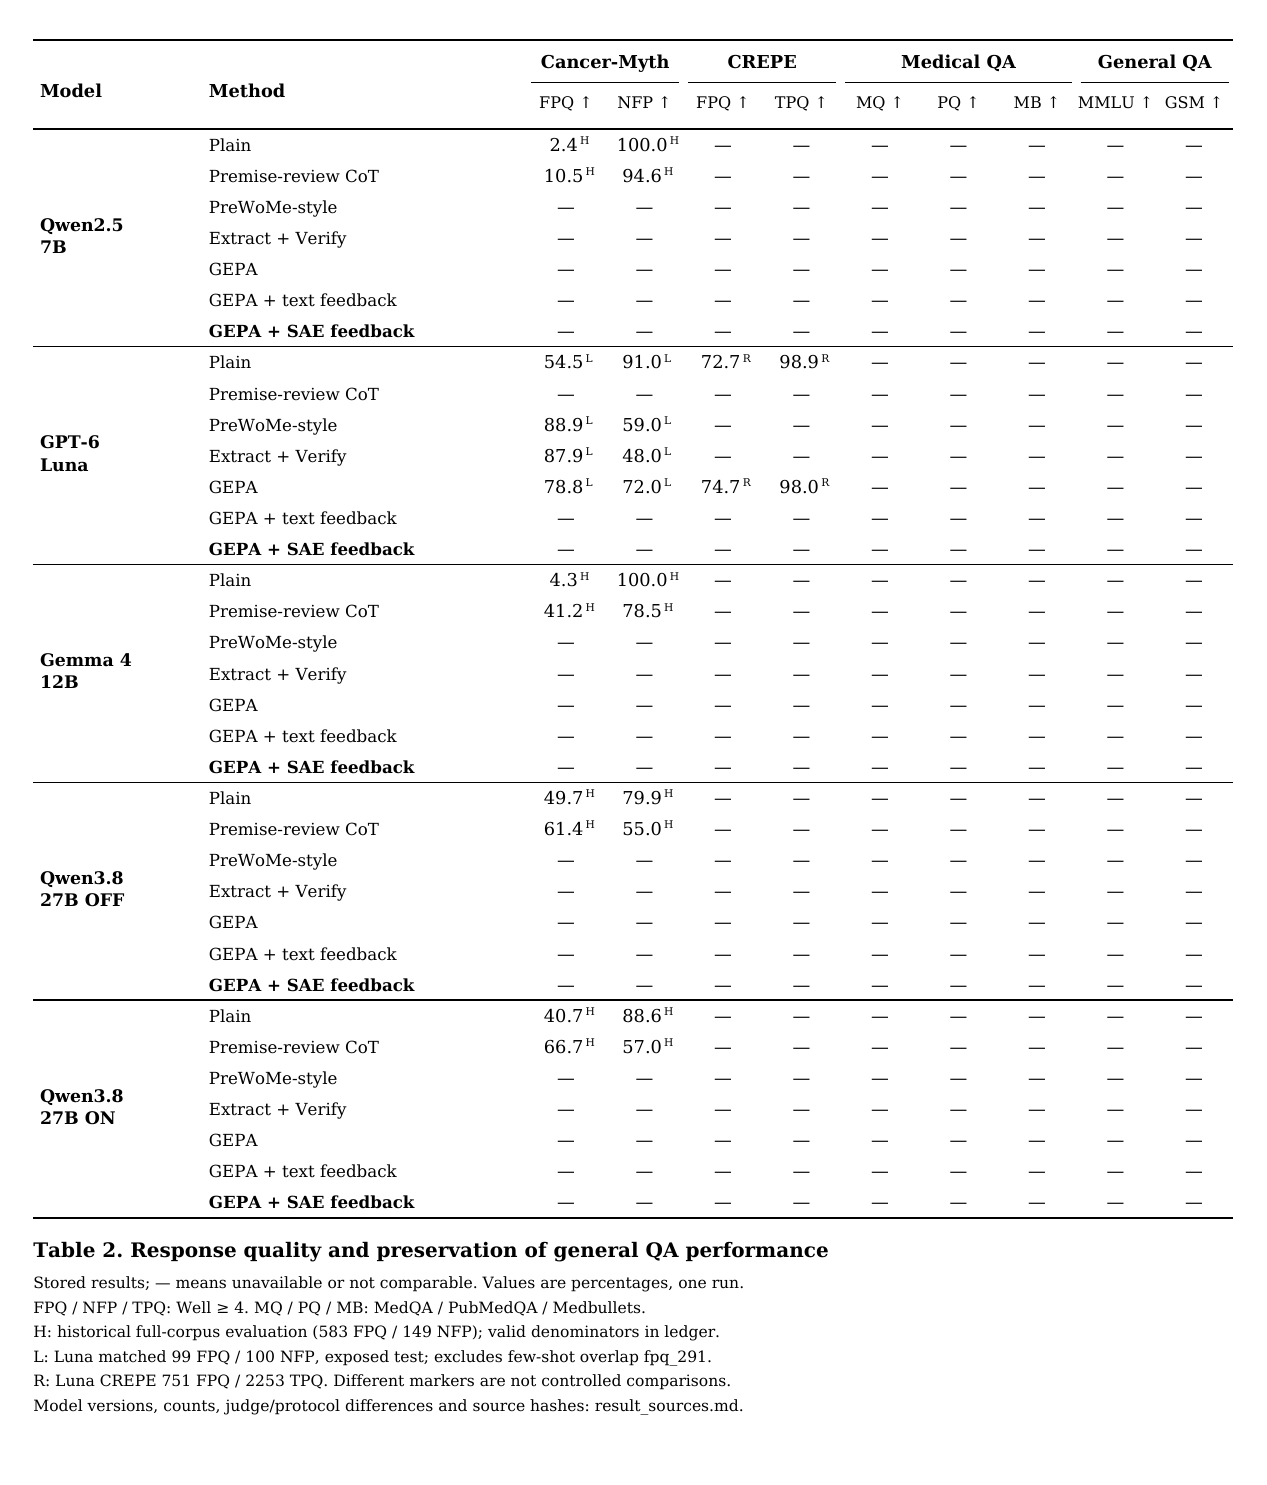
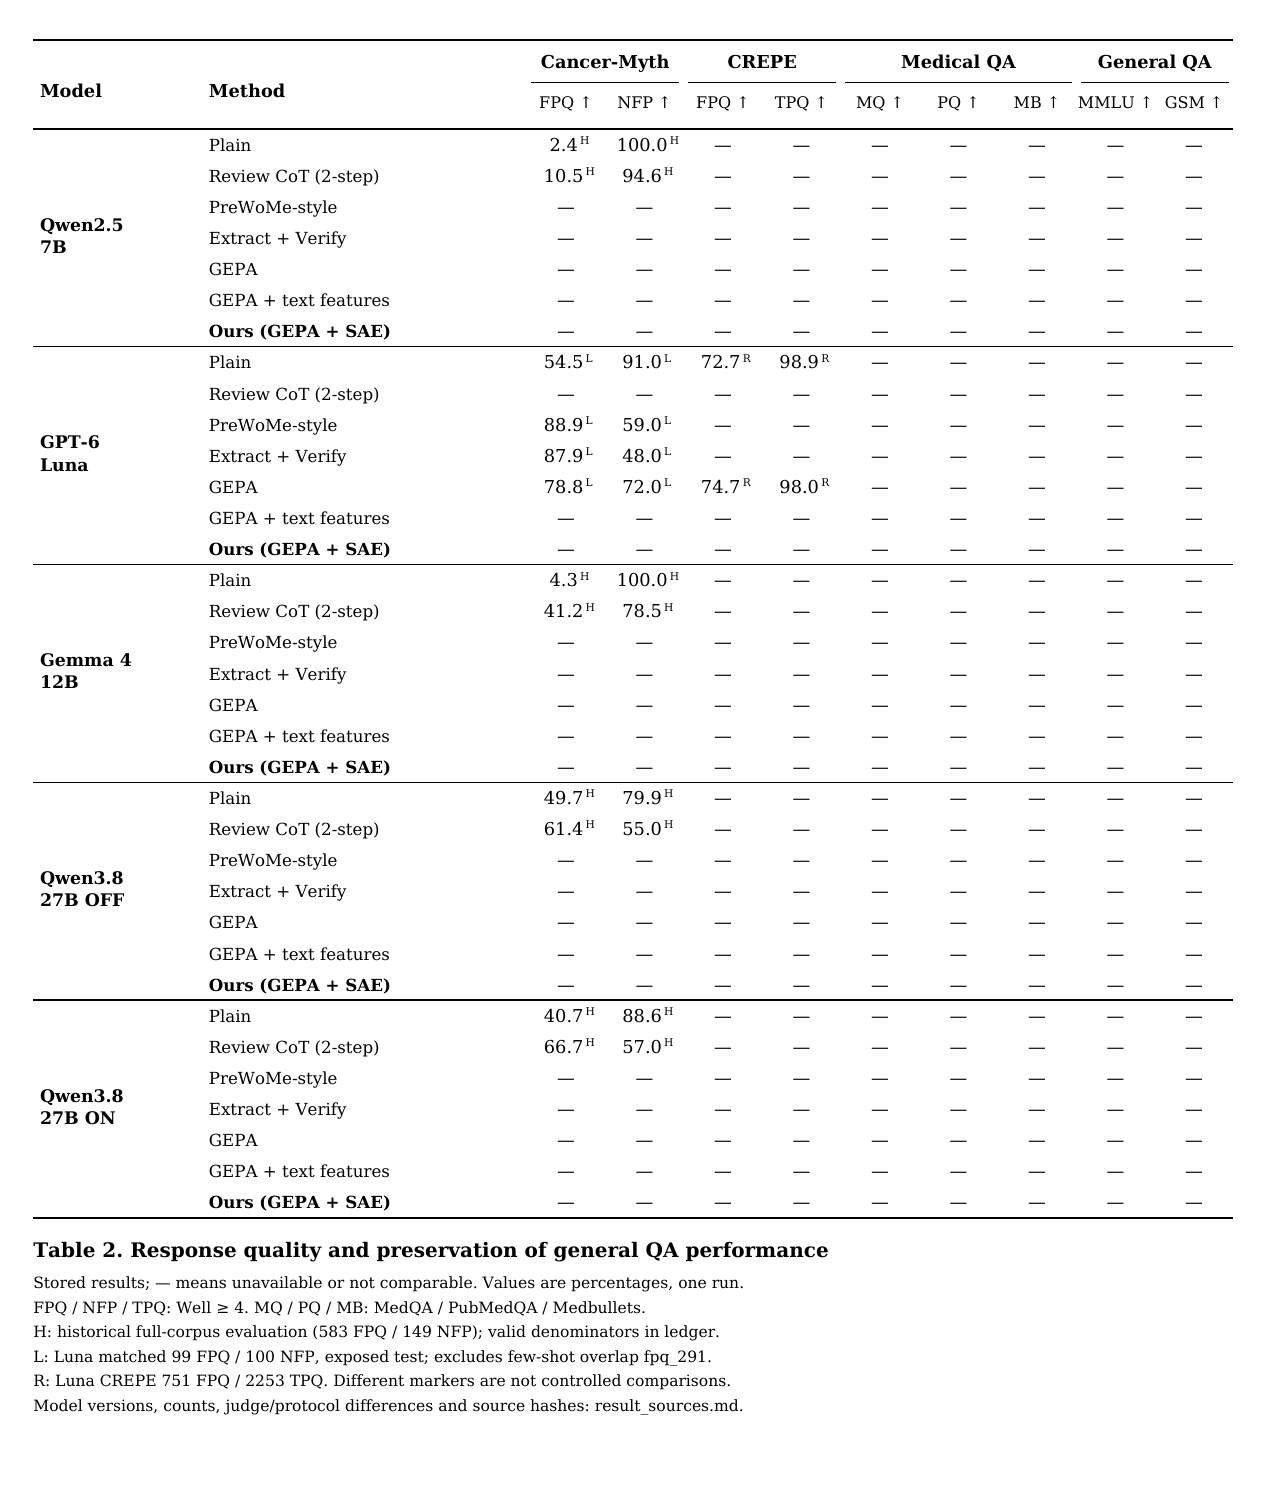
Clarify GEPA controls and mark SAE feedback as Ours

diff --git a/docs/reviews/paper_tables_2026-10-06/table2.tex b/docs/reviews/paper_tables_2026-10-06/table2.tex
@@ -10,44 +10,44 @@
  &  & FPQ $\uparrow$ & NFP $\uparrow$ & FPQ $\uparrow$ & TPQ $\uparrow$ & MQ $\uparrow$ & PQ $\uparrow$ & MB $\uparrow$ & MMLU $\uparrow$ & GSM $\uparrow$ \\
 \midrule
 \multirow{7}{*}{\shortstack[l]{Qwen2.5\\7B}} & Plain & 2.4\textsuperscript{H} & 100.0\textsuperscript{H} & \textemdash & \textemdash & \textemdash & \textemdash & \textemdash & \textemdash & \textemdash \\
- & Premise-review CoT & 10.5\textsuperscript{H} & 94.6\textsuperscript{H} & \textemdash & \textemdash & \textemdash & \textemdash & \textemdash & \textemdash & \textemdash \\
+ & Review CoT (2-step) & 10.5\textsuperscript{H} & 94.6\textsuperscript{H} & \textemdash & \textemdash & \textemdash & \textemdash & \textemdash & \textemdash & \textemdash \\
  & PreWoMe-style & \textemdash & \textemdash & \textemdash & \textemdash & \textemdash & \textemdash & \textemdash & \textemdash & \textemdash \\
  & Extract + Verify & \textemdash & \textemdash & \textemdash & \textemdash & \textemdash & \textemdash & \textemdash & \textemdash & \textemdash \\
  & GEPA & \textemdash & \textemdash & \textemdash & \textemdash & \textemdash & \textemdash & \textemdash & \textemdash & \textemdash \\
- & GEPA + text feedback & \textemdash & \textemdash & \textemdash & \textemdash & \textemdash & \textemdash & \textemdash & \textemdash & \textemdash \\
- & \textbf{GEPA + SAE feedback} & \textemdash & \textemdash & \textemdash & \textemdash & \textemdash & \textemdash & \textemdash & \textemdash & \textemdash \\
+ & GEPA + text features & \textemdash & \textemdash & \textemdash & \textemdash & \textemdash & \textemdash & \textemdash & \textemdash & \textemdash \\
+ & \textbf{Ours (GEPA + SAE)} & \textemdash & \textemdash & \textemdash & \textemdash & \textemdash & \textemdash & \textemdash & \textemdash & \textemdash \\
 \midrule
 \multirow{7}{*}{\shortstack[l]{GPT-6\\Luna}} & Plain & 54.5\textsuperscript{L} & 91.0\textsuperscript{L} & 72.7\textsuperscript{R} & 98.9\textsuperscript{R} & \textemdash & \textemdash & \textemdash & \textemdash & \textemdash \\
- & Premise-review CoT & \textemdash & \textemdash & \textemdash & \textemdash & \textemdash & \textemdash & \textemdash & \textemdash & \textemdash \\
+ & Review CoT (2-step) & \textemdash & \textemdash & \textemdash & \textemdash & \textemdash & \textemdash & \textemdash & \textemdash & \textemdash \\
  & PreWoMe-style & 88.9\textsuperscript{L} & 59.0\textsuperscript{L} & \textemdash & \textemdash & \textemdash & \textemdash & \textemdash & \textemdash & \textemdash \\
  & Extract + Verify & 87.9\textsuperscript{L} & 48.0\textsuperscript{L} & \textemdash & \textemdash & \textemdash & \textemdash & \textemdash & \textemdash & \textemdash \\
  & GEPA & 78.8\textsuperscript{L} & 72.0\textsuperscript{L} & 74.7\textsuperscript{R} & 98.0\textsuperscript{R} & \textemdash & \textemdash & \textemdash & \textemdash & \textemdash \\
- & GEPA + text feedback & \textemdash & \textemdash & \textemdash & \textemdash & \textemdash & \textemdash & \textemdash & \textemdash & \textemdash \\
- & \textbf{GEPA + SAE feedback} & \textemdash & \textemdash & \textemdash & \textemdash & \textemdash & \textemdash & \textemdash & \textemdash & \textemdash \\
+ & GEPA + text features & \textemdash & \textemdash & \textemdash & \textemdash & \textemdash & \textemdash & \textemdash & \textemdash & \textemdash \\
+ & \textbf{Ours (GEPA + SAE)} & \textemdash & \textemdash & \textemdash & \textemdash & \textemdash & \textemdash & \textemdash & \textemdash & \textemdash \\
 \midrule
 \multirow{7}{*}{\shortstack[l]{Gemma 4\\12B}} & Plain & 4.3\textsuperscript{H} & 100.0\textsuperscript{H} & \textemdash & \textemdash & \textemdash & \textemdash & \textemdash & \textemdash & \textemdash \\
- & Premise-review CoT & 41.2\textsuperscript{H} & 78.5\textsuperscript{H} & \textemdash & \textemdash & \textemdash & \textemdash & \textemdash & \textemdash & \textemdash \\
+ & Review CoT (2-step) & 41.2\textsuperscript{H} & 78.5\textsuperscript{H} & \textemdash & \textemdash & \textemdash & \textemdash & \textemdash & \textemdash & \textemdash \\
  & PreWoMe-style & \textemdash & \textemdash & \textemdash & \textemdash & \textemdash & \textemdash & \textemdash & \textemdash & \textemdash \\
  & Extract + Verify & \textemdash & \textemdash & \textemdash & \textemdash & \textemdash & \textemdash & \textemdash & \textemdash & \textemdash \\
  & GEPA & \textemdash & \textemdash & \textemdash & \textemdash & \textemdash & \textemdash & \textemdash & \textemdash & \textemdash \\
- & GEPA + text feedback & \textemdash & \textemdash & \textemdash & \textemdash & \textemdash & \textemdash & \textemdash & \textemdash & \textemdash \\
- & \textbf{GEPA + SAE feedback} & \textemdash & \textemdash & \textemdash & \textemdash & \textemdash & \textemdash & \textemdash & \textemdash & \textemdash \\
+ & GEPA + text features & \textemdash & \textemdash & \textemdash & \textemdash & \textemdash & \textemdash & \textemdash & \textemdash & \textemdash \\
+ & \textbf{Ours (GEPA + SAE)} & \textemdash & \textemdash & \textemdash & \textemdash & \textemdash & \textemdash & \textemdash & \textemdash & \textemdash \\
 \midrule
 \multirow{7}{*}{\shortstack[l]{Qwen3.8\\27B OFF}} & Plain & 49.7\textsuperscript{H} & 79.9\textsuperscript{H} & \textemdash & \textemdash & \textemdash & \textemdash & \textemdash & \textemdash & \textemdash \\
- & Premise-review CoT & 61.4\textsuperscript{H} & 55.0\textsuperscript{H} & \textemdash & \textemdash & \textemdash & \textemdash & \textemdash & \textemdash & \textemdash \\
+ & Review CoT (2-step) & 61.4\textsuperscript{H} & 55.0\textsuperscript{H} & \textemdash & \textemdash & \textemdash & \textemdash & \textemdash & \textemdash & \textemdash \\
  & PreWoMe-style & \textemdash & \textemdash & \textemdash & \textemdash & \textemdash & \textemdash & \textemdash & \textemdash & \textemdash \\
  & Extract + Verify & \textemdash & \textemdash & \textemdash & \textemdash & \textemdash & \textemdash & \textemdash & \textemdash & \textemdash \\
  & GEPA & \textemdash & \textemdash & \textemdash & \textemdash & \textemdash & \textemdash & \textemdash & \textemdash & \textemdash \\
- & GEPA + text feedback & \textemdash & \textemdash & \textemdash & \textemdash & \textemdash & \textemdash & \textemdash & \textemdash & \textemdash \\
- & \textbf{GEPA + SAE feedback} & \textemdash & \textemdash & \textemdash & \textemdash & \textemdash & \textemdash & \textemdash & \textemdash & \textemdash \\
+ & GEPA + text features & \textemdash & \textemdash & \textemdash & \textemdash & \textemdash & \textemdash & \textemdash & \textemdash & \textemdash \\
+ & \textbf{Ours (GEPA + SAE)} & \textemdash & \textemdash & \textemdash & \textemdash & \textemdash & \textemdash & \textemdash & \textemdash & \textemdash \\
 \midrule
 \multirow{7}{*}{\shortstack[l]{Qwen3.8\\27B ON}} & Plain & 40.7\textsuperscript{H} & 88.6\textsuperscript{H} & \textemdash & \textemdash & \textemdash & \textemdash & \textemdash & \textemdash & \textemdash \\
- & Premise-review CoT & 66.7\textsuperscript{H} & 57.0\textsuperscript{H} & \textemdash & \textemdash & \textemdash & \textemdash & \textemdash & \textemdash & \textemdash \\
+ & Review CoT (2-step) & 66.7\textsuperscript{H} & 57.0\textsuperscript{H} & \textemdash & \textemdash & \textemdash & \textemdash & \textemdash & \textemdash & \textemdash \\
  & PreWoMe-style & \textemdash & \textemdash & \textemdash & \textemdash & \textemdash & \textemdash & \textemdash & \textemdash & \textemdash \\
  & Extract + Verify & \textemdash & \textemdash & \textemdash & \textemdash & \textemdash & \textemdash & \textemdash & \textemdash & \textemdash \\
  & GEPA & \textemdash & \textemdash & \textemdash & \textemdash & \textemdash & \textemdash & \textemdash & \textemdash & \textemdash \\
- & GEPA + text feedback & \textemdash & \textemdash & \textemdash & \textemdash & \textemdash & \textemdash & \textemdash & \textemdash & \textemdash \\
- & \textbf{GEPA + SAE feedback} & \textemdash & \textemdash & \textemdash & \textemdash & \textemdash & \textemdash & \textemdash & \textemdash & \textemdash \\
+ & GEPA + text features & \textemdash & \textemdash & \textemdash & \textemdash & \textemdash & \textemdash & \textemdash & \textemdash & \textemdash \\
+ & \textbf{Ours (GEPA + SAE)} & \textemdash & \textemdash & \textemdash & \textemdash & \textemdash & \textemdash & \textemdash & \textemdash & \textemdash \\
 \bottomrule
 \end{tabular}}
 \caption{Table 2. Response quality and preservation of general QA performance. Stored results; \textemdash means unavailable or not comparable. Values are percentages, one run. FPQ / NFP / TPQ: Well $\geq$ 4. MQ / PQ / MB: MedQA / PubMedQA / Medbullets. H: historical full-corpus evaluation (583 FPQ / 149 NFP); valid denominators in ledger. L: Luna matched 99 FPQ / 100 NFP, exposed test; excludes few-shot overlap fpq\_291. R: Luna CREPE 751 FPQ / 2253 TPQ. Different markers are not controlled comparisons. Model versions, counts, judge/protocol differences and source hashes: result\_sources.md.}

diff --git a/docs/reviews/paper_tables_2026-10-06/table1.tex b/docs/reviews/paper_tables_2026-10-06/table1.tex
@@ -10,34 +10,34 @@
  &  & TPR $\uparrow$ & FPR $\downarrow$ & TPR $\uparrow$ & FPR $\downarrow$ \\
 \midrule
 \multirow{5}{*}{\shortstack[l]{Qwen2.5\\7B}} & Direct gate & 7.0\textsuperscript{H} & 10.7\textsuperscript{H} & \textemdash & \textemdash \\
- & Premise-review CoT gate & 29.5\textsuperscript{H} & 16.1\textsuperscript{H} & \textemdash & \textemdash \\
+ & Review CoT gate (2-step) & 29.5\textsuperscript{H} & 16.1\textsuperscript{H} & \textemdash & \textemdash \\
  & GEPA & \textemdash & \textemdash & \textemdash & \textemdash \\
- & GEPA + text feedback & \textemdash & \textemdash & \textemdash & \textemdash \\
- & \textbf{GEPA + SAE feedback} & \textemdash & \textemdash & \textemdash & \textemdash \\
+ & GEPA + text features & \textemdash & \textemdash & \textemdash & \textemdash \\
+ & \textbf{Ours (GEPA + SAE)} & \textemdash & \textemdash & \textemdash & \textemdash \\
 \midrule
 \multirow{5}{*}{\shortstack[l]{GPT-6\\Luna}} & Direct gate & \textemdash & \textemdash & \textemdash & \textemdash \\
- & Premise-review CoT gate & \textemdash & \textemdash & \textemdash & \textemdash \\
+ & Review CoT gate (2-step) & \textemdash & \textemdash & \textemdash & \textemdash \\
  & GEPA & \textemdash & \textemdash & \textemdash & \textemdash \\
- & GEPA + text feedback & \textemdash & \textemdash & \textemdash & \textemdash \\
- & \textbf{GEPA + SAE feedback} & \textemdash & \textemdash & \textemdash & \textemdash \\
+ & GEPA + text features & \textemdash & \textemdash & \textemdash & \textemdash \\
+ & \textbf{Ours (GEPA + SAE)} & \textemdash & \textemdash & \textemdash & \textemdash \\
 \midrule
 \multirow{5}{*}{\shortstack[l]{Gemma 4\\12B}} & Direct gate & 40.5\textsuperscript{H} & 16.1\textsuperscript{H} & \textemdash & \textemdash \\
- & Premise-review CoT gate & 51.3\textsuperscript{H} & 32.9\textsuperscript{H} & \textemdash & \textemdash \\
+ & Review CoT gate (2-step) & 51.3\textsuperscript{H} & 32.9\textsuperscript{H} & \textemdash & \textemdash \\
  & GEPA & \textemdash & \textemdash & \textemdash & \textemdash \\
- & GEPA + text feedback & \textemdash & \textemdash & \textemdash & \textemdash \\
- & \textbf{GEPA + SAE feedback} & \textemdash & \textemdash & \textemdash & \textemdash \\
+ & GEPA + text features & \textemdash & \textemdash & \textemdash & \textemdash \\
+ & \textbf{Ours (GEPA + SAE)} & \textemdash & \textemdash & \textemdash & \textemdash \\
 \midrule
 \multirow{5}{*}{\shortstack[l]{Qwen3.8\\27B OFF}} & Direct gate & 26.1\textsuperscript{H} & 16.1\textsuperscript{H} & \textemdash & \textemdash \\
- & Premise-review CoT gate & 57.5\textsuperscript{H} & 35.6\textsuperscript{H} & \textemdash & \textemdash \\
+ & Review CoT gate (2-step) & 57.5\textsuperscript{H} & 35.6\textsuperscript{H} & \textemdash & \textemdash \\
  & GEPA & \textemdash & \textemdash & \textemdash & \textemdash \\
- & GEPA + text feedback & \textemdash & \textemdash & \textemdash & \textemdash \\
- & \textbf{GEPA + SAE feedback} & \textemdash & \textemdash & \textemdash & \textemdash \\
+ & GEPA + text features & \textemdash & \textemdash & \textemdash & \textemdash \\
+ & \textbf{Ours (GEPA + SAE)} & \textemdash & \textemdash & \textemdash & \textemdash \\
 \midrule
 \multirow{5}{*}{\shortstack[l]{Qwen3.8\\27B ON}} & Direct gate & 44.1\textsuperscript{H} & 21.5\textsuperscript{H} & \textemdash & \textemdash \\
- & Premise-review CoT gate & 61.4\textsuperscript{H} & 38.3\textsuperscript{H} & \textemdash & \textemdash \\
+ & Review CoT gate (2-step) & 61.4\textsuperscript{H} & 38.3\textsuperscript{H} & \textemdash & \textemdash \\
  & GEPA & \textemdash & \textemdash & \textemdash & \textemdash \\
- & GEPA + text feedback & \textemdash & \textemdash & \textemdash & \textemdash \\
- & \textbf{GEPA + SAE feedback} & \textemdash & \textemdash & \textemdash & \textemdash \\
+ & GEPA + text features & \textemdash & \textemdash & \textemdash & \textemdash \\
+ & \textbf{Ours (GEPA + SAE)} & \textemdash & \textemdash & \textemdash & \textemdash \\
 \bottomrule
 \end{tabular}}
 \caption{Table 1. False-premise detection across models and datasets. Stored results; \textemdash means unavailable or not comparable. Values are percentages, one run. TPR $\uparrow$: FPQ detection; FPR $\downarrow$: false positives on normal questions. H: historical full-corpus evaluation (583 FPQ / 149 NFP); valid denominators in ledger. Model versions, counts, judge/protocol differences and source hashes: result\_sources.md.}

diff --git a/docs/reviews/paper_tables_2026-10-06/table_s1.tex b/docs/reviews/paper_tables_2026-10-06/table_s1.tex
@@ -15,21 +15,21 @@
  & SFT (same chosen) & \textemdash & \textemdash & \textemdash & \textemdash & \textemdash & \textemdash & \textemdash & \textemdash & \textemdash \\
  & DPO (FPQ + NFP) & \textemdash & \textemdash & \textemdash & \textemdash & \textemdash & \textemdash & \textemdash & \textemdash & \textemdash \\
  & \textbf{Feature-curated DPO} & \textemdash & \textemdash & \textemdash & \textemdash & \textemdash & \textemdash & \textemdash & \textemdash & \textemdash \\
- & \textbf{GEPA + SAE feedback} & \textemdash & \textemdash & \textemdash & \textemdash & \textemdash & \textemdash & \textemdash & \textemdash & \textemdash \\
+ & \textbf{Ours (GEPA + SAE)} & \textemdash & \textemdash & \textemdash & \textemdash & \textemdash & \textemdash & \textemdash & \textemdash & \textemdash \\
  & \textbf{GEPA + SAE + NLA} & \textemdash & \textemdash & \textemdash & \textemdash & \textemdash & \textemdash & \textemdash & \textemdash & \textemdash \\
 \midrule
 \multirow{6}{*}{\shortstack[l]{Gemma-3\\12B}} & Plain & \textemdash & \textemdash & \textemdash & \textemdash & \textemdash & \textemdash & \textemdash & \textemdash & \textemdash \\
  & SFT (same chosen) & \textemdash & \textemdash & \textemdash & \textemdash & \textemdash & \textemdash & \textemdash & \textemdash & \textemdash \\
  & DPO (FPQ + NFP) & \textemdash & \textemdash & \textemdash & \textemdash & \textemdash & \textemdash & \textemdash & \textemdash & \textemdash \\
  & \textbf{Feature-curated DPO} & \textemdash & \textemdash & \textemdash & \textemdash & \textemdash & \textemdash & \textemdash & \textemdash & \textemdash \\
- & \textbf{GEPA + SAE feedback} & \textemdash & \textemdash & \textemdash & \textemdash & \textemdash & \textemdash & \textemdash & \textemdash & \textemdash \\
+ & \textbf{Ours (GEPA + SAE)} & \textemdash & \textemdash & \textemdash & \textemdash & \textemdash & \textemdash & \textemdash & \textemdash & \textemdash \\
  & \textbf{GEPA + SAE + NLA} & \textemdash & \textemdash & \textemdash & \textemdash & \textemdash & \textemdash & \textemdash & \textemdash & \textemdash \\
 \midrule
 \multirow{6}{*}{\shortstack[l]{Gemma-2\\9B}} & Plain & \textemdash & \textemdash & \textemdash & \textemdash & \textemdash & \textemdash & \textemdash & \textemdash & \textemdash \\
  & SFT (same chosen) & \textemdash & \textemdash & \textemdash & \textemdash & \textemdash & \textemdash & \textemdash & \textemdash & \textemdash \\
  & DPO (FPQ + NFP) & \textemdash & \textemdash & \textemdash & \textemdash & \textemdash & \textemdash & \textemdash & \textemdash & \textemdash \\
  & \textbf{Feature-curated DPO} & \textemdash & \textemdash & \textemdash & \textemdash & \textemdash & \textemdash & \textemdash & \textemdash & \textemdash \\
- & \textbf{GEPA + SAE feedback} & \textemdash & \textemdash & \textemdash & \textemdash & \textemdash & \textemdash & \textemdash & \textemdash & \textemdash \\
+ & \textbf{Ours (GEPA + SAE)} & \textemdash & \textemdash & \textemdash & \textemdash & \textemdash & \textemdash & \textemdash & \textemdash & \textemdash \\
  & \textbf{GEPA + SAE + AO} & \textemdash & \textemdash & \textemdash & \textemdash & \textemdash & \textemdash & \textemdash & \textemdash & \textemdash \\
 \bottomrule
 \end{tabular}}

diff --git a/docs/reviews/paper_tables_2026-10-06/README.md b/docs/reviews/paper_tables_2026-10-06/README.md
@@ -54,12 +54,41 @@ MMLU는 [Measuring Massive Multitask Language Understanding 공식 저장소](ht
 
 ## 방법 추가 및 의미
 
-- 본문: Plain, 전제 검토 CoT, PreWoMe식, Extract+Verify, GEPA, **GEPA + text feedback**, **GEPA + SAE feedback**.
-- `text feedback`: 동일 학습 답변 쌍에서 LLM이 텍스트만 보고 특징을 요약해 제공한다. 기존 GEPA도 자연어 피드백을 쓰므로 이 이름은 'GEPA에 처음 텍스트를 준다'는 뜻이 아니다.
+- 본문: Plain, 전제 검토 CoT, PreWoMe식, Extract+Verify, GEPA, **GEPA + text features**, **Ours (GEPA + SAE)**.
+- `text features` (이전 `text feedback`): 동일 학습 답변 쌍에서 LLM이 텍스트만 보고 특징을 요약해 제공한다. 기존 GEPA도 자연어 피드백을 쓰므로 이 이름은 'GEPA에 처음 텍스트를 준다'는 뜻이 아니다.
 - `SAE feedback`: WIMHF식 답변 쌍 특징을 설명·검증한 후 반성 입력에 제공하는 제안 조건. 탐지와 답변 각각 따로 최적화한다.
 - Table S1: 기존 **SFT/DPO (FPQ + 합성 twins)** 결과 두 행을 별도로 추가했다. 이는 계획 중인 같은 chosen의 SFT, 자연 FPQ+NFP 기본 DPO, 특징 선별 DPO와 다르므로 그 칸을 대신 채우지 않는다. NLA/AO 설명 추가도 계획 상태다. 학습 데이터 수·구성·예산을 맞추며 해당 요소의 추가 효과를 본다.
 - Table S2/S3: 기존 CoT·균형 지시·무조건 교정·Gate·학습 분류기 기준선을 삭제하지 않고 별도 표로 보존했다.
 - 본표에 포함되지 않은 NLA/AO 조합은 미지원 확정이 아니라 현재 계획 범위 밖이다. 모델에 따라 방법을 바꾼 결과를 같은 조건으로 묶지 않는다.
+
+## 방법명과 첨부 기존 표 대조 — 2026-10-07
+
+| 표의 방법명 | 프롬프트 최적화에 주는 정보 | 역할 |
+|---|---|---|
+| GEPA | 실행한 질문·답변, 채점 점수와 채점 이유 등 기존 실행 피드백 | 기존 기준선. 원래부터 자연어 피드백을 사용함 |
+| GEPA + text features | 위 정보 + 같은 학습 답변 풀에서 LLM이 텍스트를 직접 비교해 발견·검증한 공통 특징 | 우리가 설계한 SAE 없는 대조군. 공개 GEPA의 별도 공식 방법 이름이 아님 |
+| **Ours (GEPA + SAE)** | 위 정보 + 답변 임베딩 차이에서 SAE로 발견하고 자연어로 설명·검증한 특징 | GEPA + SAE feedback의 표 표시명. 제안 방법이며 아직 성능 미측정 |
+
+G2와 Ours는 같은 답변 풀·특징 검증·피드백 길이·예산을 맞춰 SAE의 추가 가치를 비교한다. 특징을 평가 점수에 더하지 않으며, 프롬프트를 고치는 반성 모델에게 추가 정보로 준다. 기존 GEPA 실행과 새 특징 실험의 길이 제한 등이 달라질 수 있으므로 최종 공정 비교에서는 G0도 같은 조건으로 다시 돌린다.
+
+**Review CoT gate (2-step)**는 첨부 표의 **전제 검토 CoT gate · 2-step**이다.
+
+1. 원 질문을 주고 사실적 전제를 검토하게 한다. 잘못된 전제와 교정 정보를 찾고, 전제가 타당하면 그렇다고 하며 오류를 만들지 않도록 지시한다.
+2. 원 질문과 검토문을 함께 주고 거짓 전제가 있는지 최종 Yes/No 또는 이진 JSON으로 판정한다. Qwen2.5는 Yes/No 토큰 점수 비교, Gemma/Qwen3.8은 생성 JSON이므로 판정 출력 절차는 다르다.
+
+Table 1은 **2단계의 탐지 성능**이다. Table 2의 `Review CoT (2-step)`는 2단계에서 판정 대신 **실제 질문에 대한 답변**을 생성한다. S2의 `CoT-gated response`는 별도로 gate 양성 시 저장된 무조건 교정 답변, 음성 시 저장된 Plain 답변을 선택한 결과다. gate의 2-step이 최종 답변 생성까지 총 두 번 호출했다는 뜻은 아니다.
+
+**첨부 표의 수치가 전부 들어간 것은 아니다.** 현재 계획 모델과 일치하는 공개 모델 4조건 및 공통 TF-IDF의 **76칸은 대조하여 모두 일치**함을 확인했다. 나머지는 아래 이유로 구분했다.
+
+| 첨부 표 항목 | 현재 위치 / 처리 |
+|---|---|
+| Qwen2.5·Gemma 4·Qwen3.8 OFF/ON Direct 및 CoT 탐지 16칸 | Table 1 |
+| 같은 모델들의 Plain·전제 검토 답변 16칸 | Table 2 |
+| 같은 모델들의 CoT·무조건 교정·Direct/CoT/Text gate 답변 40칸 | Table S2 |
+| Qwen hidden probe 및 공통 TF-IDF 탐지 4칸 | Table S3 |
+| GPT-Luna 탐지 62.6/39.6, 보호 지시 38.6/15.4, CoT 83.5/65.1 등 | **GPT-5.6-Luna** 결과. GPT-6 칸에 대입하지 않음. 기존 [45번 표](../../45_complete_performance_tables_2026-10-01.md)에 유지 |
+| GPT-5.6-Luna 답변 44.8/89.3 등 | 동일하게 현재 GPT-6와 별도. 50.2/90.8과 80.6/50.6은 원래 부분 채점 수치라는 단서도 유지 |
+| Claude-Sonnet | 앞서 요청한 모델 제외를 유지 |
 
 ## 공통 평가 규칙
 
